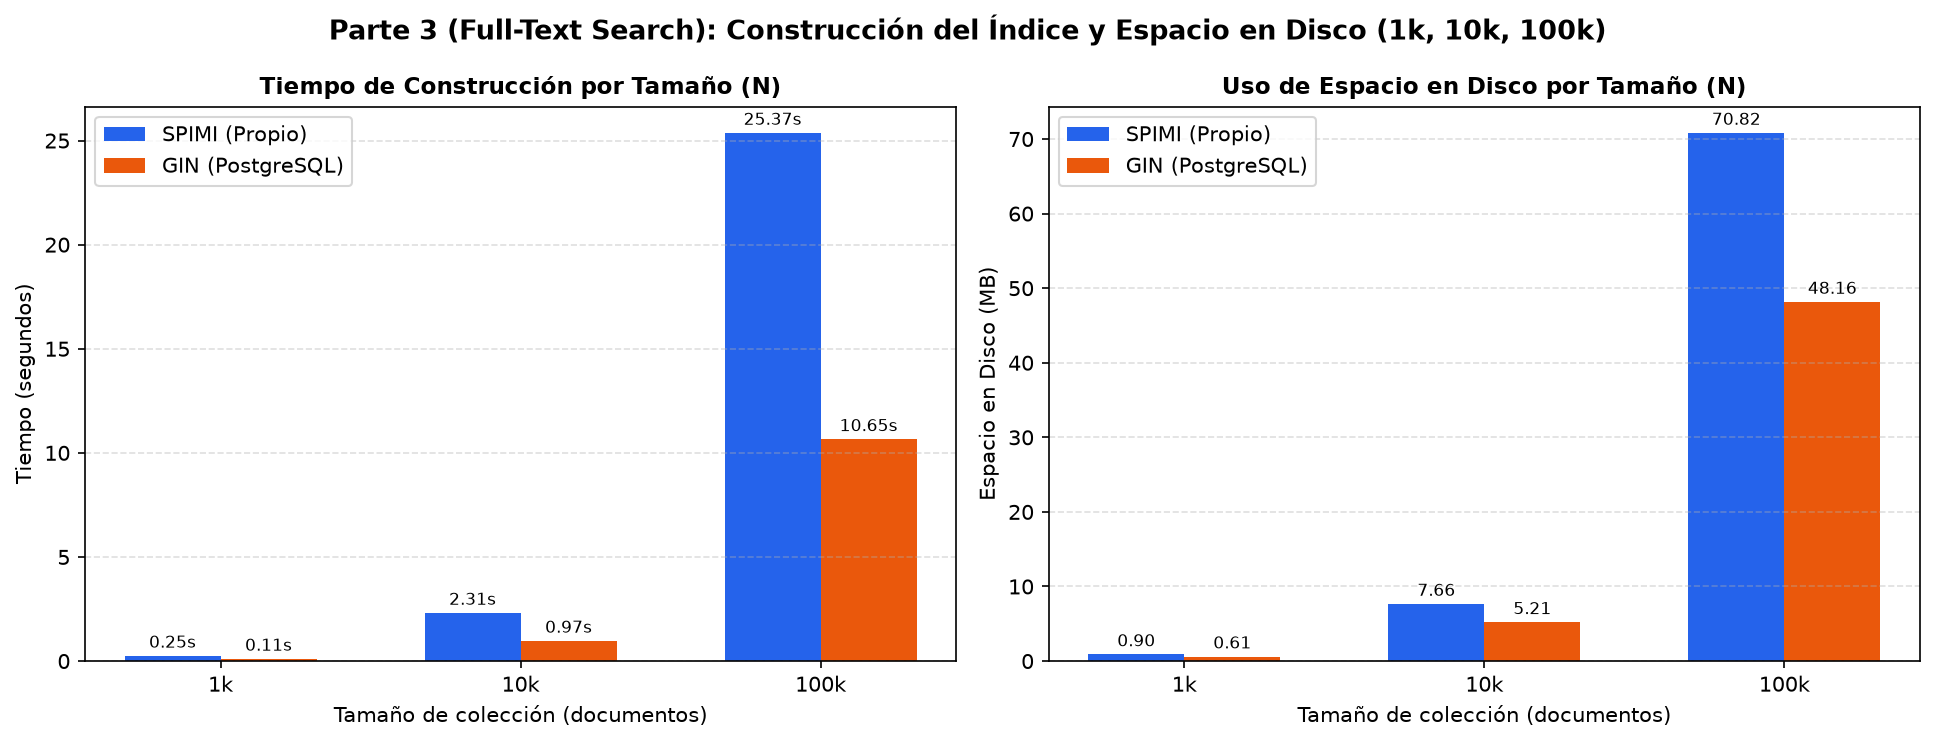
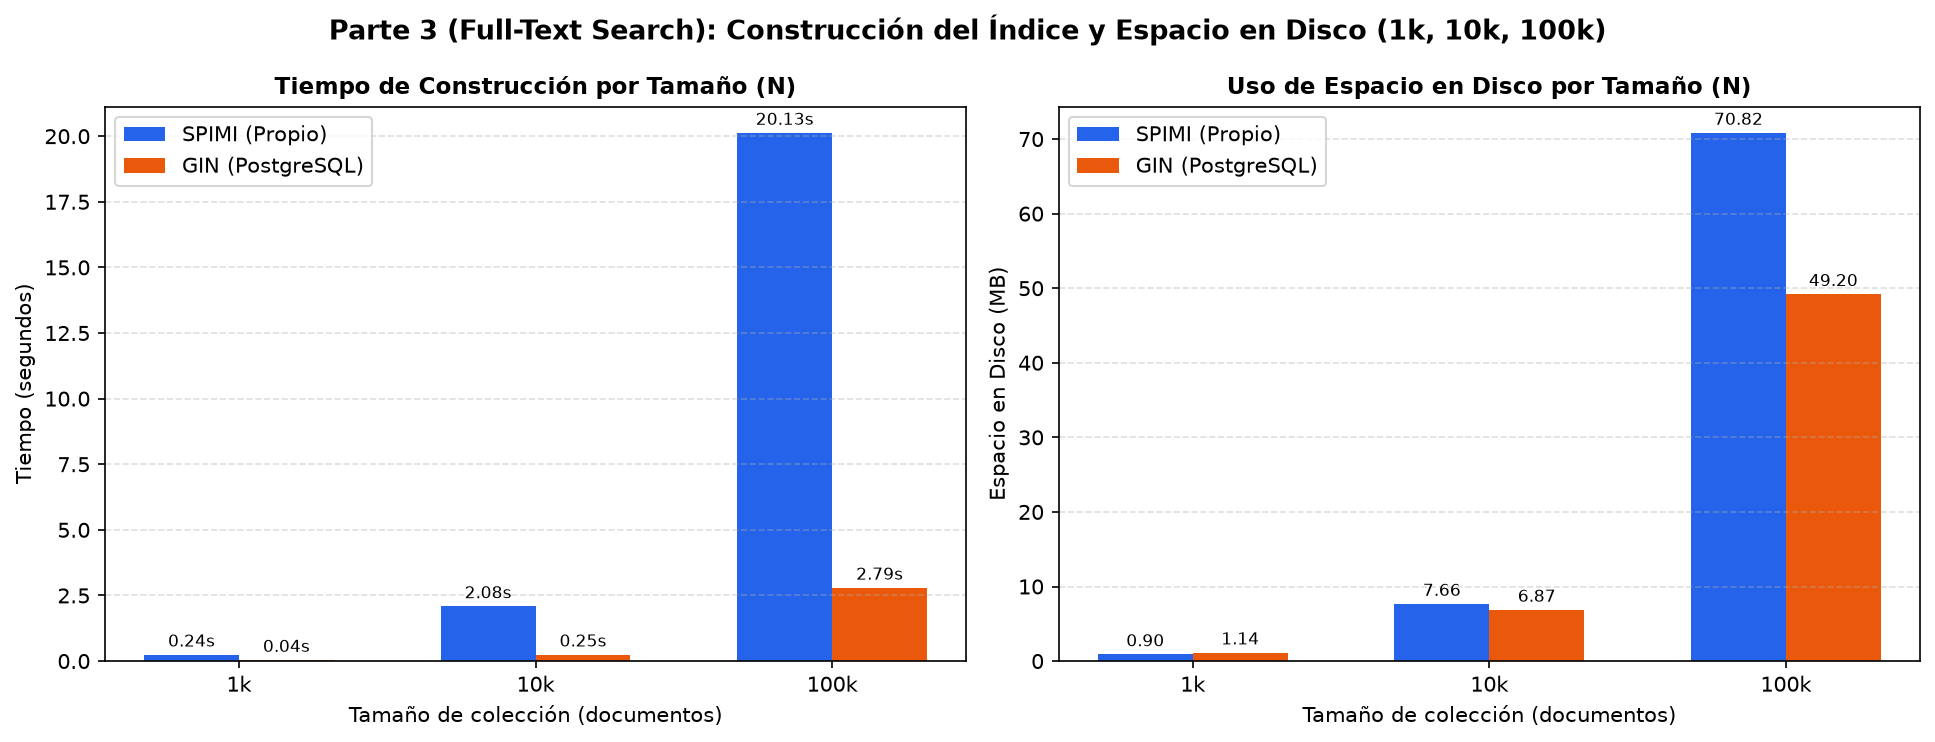
fix: graficos de tiempo de consultas IVF/HNSW arreglados

diff --git a/bench/experiments/vector_compare.py b/bench/experiments/vector_compare.py
@@ -233,21 +233,13 @@ def _medir_memoria_indice_faiss(indice_faiss, rids=None) -> float:
         return tamano_archivos_mb([ruta, ruta + ".meta.npz"])
 
 
-def _medir_consulta(fn_lote, consultas: np.ndarray, repeticiones: int, calentamiento: int = 2) -> tuple[np.ndarray, float, float]:
+def _medir_consulta(fn_una, consultas: np.ndarray, repeticiones: int, calentamiento: int = 10) -> tuple[np.ndarray, float, float]:
     nq = len(consultas)
-    for _ in range(calentamiento):
-        fn_lote(consultas[: min(10, nq)])
-
-    tiempos_lote = []
-    pos_final = None
-    for _ in range(repeticiones):
-        t0 = time.perf_counter()
-        pos_final = fn_lote(consultas)
-        dt_ms = (time.perf_counter() - t0) * 1000.0
-        tiempos_lote.append(dt_ms)
-
-    mediana_lote_ms = float(np.median(tiempos_lote))
-    ms_por_consulta = mediana_lote_ms / max(1, nq)
+    lote_rep = np.tile(consultas, (max(1, repeticiones), 1))
+    res, tiempos_ms = medir_tiempo(fn_una, lote_rep, calentamiento=min(calentamiento, len(lote_rep)))
+    pos_final = np.asarray(res[:nq])
+    ms_por_consulta = float(np.median(tiempos_ms))
+    mediana_lote_ms = ms_por_consulta * nq
     return pos_final, ms_por_consulta, mediana_lote_ms
 
 
@@ -344,11 +336,13 @@ def main(argv=None):
             mem_exacto_mb = float(x.nbytes) / (1024.0 * 1024.0)
 
             for metrica in args.metricas:
-                # 1. Ground Truth: EXACTO
+                # 1. Ground Truth: EXACTO (evaluado consulta por consulta en igualdad de condiciones)
+                rep_exacto = 1 if n >= 100_000 else min(args.repeticiones, 2)
                 pos_exacto, ms_q_exacto, ms_lote_exacto = _medir_consulta(
-                    lambda c: knn_exacto_lote(c, x, args.k, metrica)[0],
+                    lambda c: knn_exacto_lote(c, x, args.k, metrica)[0][0],
                     q,
-                    args.repeticiones,
+                    rep_exacto,
+                    calentamiento=5 if n >= 100_000 else 10,
                 )
                 filas.append({
                     "tipo": tipo,
@@ -375,7 +369,7 @@ def main(argv=None):
                 mem_hnsw_mb = _medir_memoria_indice_faiss(hnsw)
 
                 pos_hnsw, ms_q_hnsw, ms_lote_hnsw = _medir_consulta(
-                    lambda c: hnsw.search_lote(c, args.k, efSearch=ef_s)[0],
+                    lambda c: hnsw.search_lote(c, args.k, efSearch=ef_s)[0][0],
                     q,
                     args.repeticiones,
                 )
@@ -409,7 +403,7 @@ def main(argv=None):
                 mem_ivf_mb = _medir_memoria_indice_faiss(ivf)
 
                 pos_ivf, ms_q_ivf, ms_lote_ivf = _medir_consulta(
-                    lambda c: ivf.search_lote(c, args.k, nprobe=nprobe_val)[0],
+                    lambda c: ivf.search_lote(c, args.k, nprobe=nprobe_val)[0][0],
                     q,
                     args.repeticiones,
                 )

diff --git a/bench/results/vector_resumen.md b/bench/results/vector_resumen.md
@@ -4,42 +4,42 @@
 
 | Dominio | N | Dim | Métrica | Índice | Parámetros | Construcción (s) | Memoria (MB) | Consulta (ms/q) | Speedup | Recall@10 | Origen |
 |:---|---:|---:|:---|:---|:---|---:|---:|---:|---:|---:|:---|
-| **imagen** | 1,000 | 512 | `euclidean` | **EXACTO** | `secuencial` | 0.0000 | 1.95 | 0.0057 | 1.00x | 1.0000 | BoVW real (SIFT) |
-| **imagen** | 1,000 | 512 | `euclidean` | **HNSW** | `M=16, efC=200, efS=32` | 0.0558 | 2.09 | 0.0162 | 0.35x | 0.9460 | BoVW real (SIFT) |
-| **imagen** | 1,000 | 512 | `euclidean` | **IVF** | `nlist=32, nprobe=4` | 0.0035 | 2.02 | 0.0213 | 0.27x | 0.9950 | BoVW real (SIFT) |
-| **imagen** | 1,000 | 512 | `cosine` | **EXACTO** | `secuencial` | 0.0000 | 1.95 | 0.0074 | 1.00x | 1.0000 | BoVW real (SIFT) |
-| **imagen** | 1,000 | 512 | `cosine` | **HNSW** | `M=16, efC=200, efS=16` | 0.0597 | 2.09 | 0.0115 | 0.64x | 0.8250 | BoVW real (SIFT) |
-| **imagen** | 1,000 | 512 | `cosine` | **IVF** | `nlist=32, nprobe=16` | 0.0019 | 2.02 | 0.0220 | 0.34x | 0.9770 | BoVW real (SIFT) |
-| **imagen** | 10,000 | 512 | `euclidean` | **EXACTO** | `secuencial` | 0.0000 | 19.53 | 0.1085 | 1.00x | 1.0000 | BoVW real (SIFT) |
-| **imagen** | 10,000 | 512 | `euclidean` | **HNSW** | `M=16, efC=200, efS=64` | 0.9461 | 20.91 | 0.0433 | 2.50x | 0.9480 | BoVW real (SIFT) |
-| **imagen** | 10,000 | 512 | `euclidean` | **IVF** | `nlist=100, nprobe=8` | 0.0254 | 19.80 | 0.0884 | 1.23x | 0.9550 | BoVW real (SIFT) |
-| **imagen** | 10,000 | 512 | `cosine` | **EXACTO** | `secuencial` | 0.0000 | 19.53 | 0.1157 | 1.00x | 1.0000 | BoVW real (SIFT) |
-| **imagen** | 10,000 | 512 | `cosine` | **HNSW** | `M=16, efC=200, efS=32` | 1.3634 | 20.91 | 0.0388 | 2.98x | 0.9550 | BoVW real (SIFT) |
-| **imagen** | 10,000 | 512 | `cosine` | **IVF** | `nlist=100, nprobe=16` | 0.0269 | 19.80 | 0.0647 | 1.79x | 0.9510 | BoVW real (SIFT) |
-| **imagen** | 100,000 | 512 | `euclidean` | **EXACTO** | `secuencial` | 0.0000 | 195.31 | 1.0018 | 1.00x | 1.0000 | BoVW real (SIFT) |
-| **imagen** | 100,000 | 512 | `euclidean` | **HNSW** | `M=16, efC=200, efS=256` | 27.9713 | 209.08 | 0.4495 | 2.23x | 0.9490 | BoVW real (SIFT) |
-| **imagen** | 100,000 | 512 | `euclidean` | **IVF** | `nlist=316, nprobe=32` | 0.4353 | 196.70 | 0.9459 | 1.06x | 0.9780 | BoVW real (SIFT) |
-| **imagen** | 100,000 | 512 | `cosine` | **EXACTO** | `secuencial` | 0.0000 | 195.31 | 1.1064 | 1.00x | 1.0000 | BoVW real (SIFT) |
-| **imagen** | 100,000 | 512 | `cosine` | **HNSW** | `M=16, efC=200, efS=128` | 38.6750 | 209.08 | 0.2808 | 3.94x | 0.9660 | BoVW real (SIFT) |
-| **imagen** | 100,000 | 512 | `cosine` | **IVF** | `nlist=316, nprobe=32` | 0.4177 | 196.70 | 0.3440 | 3.22x | 0.9540 | BoVW real (SIFT) |
-| **audio** | 1,000 | 256 | `euclidean` | **EXACTO** | `secuencial` | 0.0000 | 0.98 | 0.0051 | 1.00x | 1.0000 | BoAW real (MFCC) |
-| **audio** | 1,000 | 256 | `euclidean` | **HNSW** | `M=16, efC=200, efS=32` | 0.0407 | 1.11 | 0.0101 | 0.50x | 0.9600 | BoAW real (MFCC) |
-| **audio** | 1,000 | 256 | `euclidean` | **IVF** | `nlist=32, nprobe=4` | 0.0016 | 1.02 | 0.0081 | 0.63x | 0.9590 | BoAW real (MFCC) |
-| **audio** | 1,000 | 256 | `cosine` | **EXACTO** | `secuencial` | 0.0000 | 0.98 | 0.0070 | 1.00x | 1.0000 | BoAW real (MFCC) |
-| **audio** | 1,000 | 256 | `cosine` | **HNSW** | `M=16, efC=200, efS=16` | 0.0497 | 1.11 | 0.0072 | 0.97x | 0.8640 | BoAW real (MFCC) |
-| **audio** | 1,000 | 256 | `cosine` | **IVF** | `nlist=32, nprobe=16` | 0.0017 | 1.02 | 0.0098 | 0.72x | 0.9850 | BoAW real (MFCC) |
-| **audio** | 10,000 | 256 | `euclidean` | **EXACTO** | `secuencial` | 0.0000 | 9.77 | 0.0869 | 1.00x | 1.0000 | BoAW real (MFCC) |
-| **audio** | 10,000 | 256 | `euclidean` | **HNSW** | `M=16, efC=200, efS=64` | 0.7421 | 11.14 | 0.0266 | 3.27x | 0.9890 | BoAW real (MFCC) |
-| **audio** | 10,000 | 256 | `euclidean` | **IVF** | `nlist=100, nprobe=16` | 0.0148 | 9.94 | 0.0826 | 1.05x | 0.9950 | BoAW real (MFCC) |
-| **audio** | 10,000 | 256 | `cosine` | **EXACTO** | `secuencial` | 0.0000 | 9.77 | 0.0970 | 1.00x | 1.0000 | BoAW real (MFCC) |
-| **audio** | 10,000 | 256 | `cosine` | **HNSW** | `M=16, efC=200, efS=32` | 0.8723 | 11.14 | 0.0147 | 6.62x | 0.9890 | BoAW real (MFCC) |
-| **audio** | 10,000 | 256 | `cosine` | **IVF** | `nlist=100, nprobe=16` | 0.0145 | 9.94 | 0.0277 | 3.50x | 0.9540 | BoAW real (MFCC) |
-| **audio** | 100,000 | 256 | `euclidean` | **EXACTO** | `secuencial` | 0.0000 | 97.66 | 0.5118 | 1.00x | 1.0000 | BoAW real (MFCC) |
-| **audio** | 100,000 | 256 | `euclidean` | **HNSW** | `M=16, efC=200, efS=32` | 14.6809 | 111.42 | 0.0372 | 13.76x | 0.9590 | BoAW real (MFCC) |
-| **audio** | 100,000 | 256 | `euclidean` | **IVF** | `nlist=316, nprobe=32` | 0.3017 | 98.73 | 0.4078 | 1.26x | 0.9700 | BoAW real (MFCC) |
-| **audio** | 100,000 | 256 | `cosine` | **EXACTO** | `secuencial` | 0.0000 | 97.66 | 0.7890 | 1.00x | 1.0000 | BoAW real (MFCC) |
-| **audio** | 100,000 | 256 | `cosine` | **HNSW** | `M=16, efC=200, efS=32` | 15.6260 | 111.42 | 0.0367 | 21.49x | 0.9710 | BoAW real (MFCC) |
-| **audio** | 100,000 | 256 | `cosine` | **IVF** | `nlist=316, nprobe=4` | 0.2800 | 98.73 | 0.0255 | 31.00x | 0.9120 | BoAW real (MFCC) |
+| **imagen** | 1,000 | 512 | `euclidean` | **EXACTO** | `secuencial` | 0.0000 | 1.95 | 0.0748 | 1.00x | 1.0000 | BoVW real (SIFT) |
+| **imagen** | 1,000 | 512 | `euclidean` | **HNSW** | `M=16, efC=200, efS=32` | 0.0524 | 2.09 | 0.0242 | 3.09x | 0.9680 | BoVW real (SIFT) |
+| **imagen** | 1,000 | 512 | `euclidean` | **IVF** | `nlist=32, nprobe=4` | 0.0029 | 2.02 | 0.0230 | 3.25x | 0.9310 | BoVW real (SIFT) |
+| **imagen** | 1,000 | 512 | `cosine` | **EXACTO** | `secuencial` | 0.0000 | 1.95 | 0.0830 | 1.00x | 1.0000 | BoVW real (SIFT) |
+| **imagen** | 1,000 | 512 | `cosine` | **HNSW** | `M=16, efC=200, efS=16` | 0.0610 | 2.09 | 0.0234 | 3.55x | 0.8220 | BoVW real (SIFT) |
+| **imagen** | 1,000 | 512 | `cosine` | **IVF** | `nlist=32, nprobe=16` | 0.0023 | 2.02 | 0.0333 | 2.49x | 0.9830 | BoVW real (SIFT) |
+| **imagen** | 10,000 | 512 | `euclidean` | **EXACTO** | `secuencial` | 0.0000 | 19.53 | 0.6995 | 1.00x | 1.0000 | BoVW real (SIFT) |
+| **imagen** | 10,000 | 512 | `euclidean` | **HNSW** | `M=16, efC=200, efS=64` | 0.9483 | 20.91 | 0.0508 | 13.77x | 0.9110 | BoVW real (SIFT) |
+| **imagen** | 10,000 | 512 | `euclidean` | **IVF** | `nlist=100, nprobe=8` | 0.0232 | 19.80 | 0.1339 | 5.22x | 0.9740 | BoVW real (SIFT) |
+| **imagen** | 10,000 | 512 | `cosine` | **EXACTO** | `secuencial` | 0.0000 | 19.53 | 0.7059 | 1.00x | 1.0000 | BoVW real (SIFT) |
+| **imagen** | 10,000 | 512 | `cosine` | **HNSW** | `M=16, efC=200, efS=32` | 1.2939 | 20.91 | 0.0465 | 15.19x | 0.7500 | BoVW real (SIFT) |
+| **imagen** | 10,000 | 512 | `cosine` | **IVF** | `nlist=100, nprobe=16` | 0.0294 | 19.80 | 0.0811 | 8.71x | 0.8220 | BoVW real (SIFT) |
+| **imagen** | 100,000 | 512 | `euclidean` | **EXACTO** | `secuencial` | 0.0000 | 195.31 | 7.1313 | 1.00x | 1.0000 | BoVW real (SIFT) |
+| **imagen** | 100,000 | 512 | `euclidean` | **HNSW** | `M=16, efC=200, efS=256` | 28.1018 | 209.08 | 0.3617 | 19.72x | 0.6890 | BoVW real (SIFT) |
+| **imagen** | 100,000 | 512 | `euclidean` | **IVF** | `nlist=316, nprobe=32` | 0.4813 | 196.70 | 1.1905 | 5.99x | 0.8070 | BoVW real (SIFT) |
+| **imagen** | 100,000 | 512 | `cosine` | **EXACTO** | `secuencial` | 0.0000 | 195.31 | 7.0848 | 1.00x | 1.0000 | BoVW real (SIFT) |
+| **imagen** | 100,000 | 512 | `cosine` | **HNSW** | `M=16, efC=200, efS=128` | 38.0121 | 209.08 | 0.3959 | 17.90x | 0.7830 | BoVW real (SIFT) |
+| **imagen** | 100,000 | 512 | `cosine` | **IVF** | `nlist=316, nprobe=32` | 0.5142 | 196.70 | 0.4605 | 15.38x | 0.8080 | BoVW real (SIFT) |
+| **audio** | 1,000 | 256 | `euclidean` | **EXACTO** | `secuencial` | 0.0000 | 0.98 | 0.0424 | 1.00x | 1.0000 | BoAW real (MFCC) |
+| **audio** | 1,000 | 256 | `euclidean` | **HNSW** | `M=16, efC=200, efS=32` | 0.0417 | 1.11 | 0.0179 | 2.37x | 0.9600 | BoAW real (MFCC) |
+| **audio** | 1,000 | 256 | `euclidean` | **IVF** | `nlist=32, nprobe=4` | 0.0022 | 1.02 | 0.0150 | 2.84x | 0.9590 | BoAW real (MFCC) |
+| **audio** | 1,000 | 256 | `cosine` | **EXACTO** | `secuencial` | 0.0000 | 0.98 | 0.0499 | 1.00x | 1.0000 | BoAW real (MFCC) |
+| **audio** | 1,000 | 256 | `cosine` | **HNSW** | `M=16, efC=200, efS=16` | 0.0506 | 1.11 | 0.0190 | 2.63x | 0.8640 | BoAW real (MFCC) |
+| **audio** | 1,000 | 256 | `cosine` | **IVF** | `nlist=32, nprobe=16` | 0.0025 | 1.02 | 0.0214 | 2.33x | 0.9850 | BoAW real (MFCC) |
+| **audio** | 10,000 | 256 | `euclidean` | **EXACTO** | `secuencial` | 0.0000 | 9.77 | 0.2918 | 1.00x | 1.0000 | BoAW real (MFCC) |
+| **audio** | 10,000 | 256 | `euclidean` | **HNSW** | `M=16, efC=200, efS=64` | 0.7759 | 11.14 | 0.0371 | 7.87x | 0.9890 | BoAW real (MFCC) |
+| **audio** | 10,000 | 256 | `euclidean` | **IVF** | `nlist=100, nprobe=16` | 0.0167 | 9.94 | 0.0927 | 3.15x | 0.9950 | BoAW real (MFCC) |
+| **audio** | 10,000 | 256 | `cosine` | **EXACTO** | `secuencial` | 0.0000 | 9.77 | 0.2971 | 1.00x | 1.0000 | BoAW real (MFCC) |
+| **audio** | 10,000 | 256 | `cosine` | **HNSW** | `M=16, efC=200, efS=32` | 0.8765 | 11.14 | 0.0321 | 9.24x | 0.9890 | BoAW real (MFCC) |
+| **audio** | 10,000 | 256 | `cosine` | **IVF** | `nlist=100, nprobe=16` | 0.0160 | 9.94 | 0.0402 | 7.39x | 0.9540 | BoAW real (MFCC) |
+| **audio** | 100,000 | 256 | `euclidean` | **EXACTO** | `secuencial` | 0.0000 | 97.66 | 3.0207 | 1.00x | 1.0000 | BoAW real (MFCC) |
+| **audio** | 100,000 | 256 | `euclidean` | **HNSW** | `M=16, efC=200, efS=32` | 15.1696 | 111.42 | 0.0430 | 70.28x | 0.9590 | BoAW real (MFCC) |
+| **audio** | 100,000 | 256 | `euclidean` | **IVF** | `nlist=316, nprobe=32` | 0.3122 | 98.73 | 0.4286 | 7.05x | 0.9700 | BoAW real (MFCC) |
+| **audio** | 100,000 | 256 | `cosine` | **EXACTO** | `secuencial` | 0.0000 | 97.66 | 3.3944 | 1.00x | 1.0000 | BoAW real (MFCC) |
+| **audio** | 100,000 | 256 | `cosine` | **HNSW** | `M=16, efC=200, efS=32` | 16.0475 | 111.42 | 0.0459 | 73.89x | 0.9700 | BoAW real (MFCC) |
+| **audio** | 100,000 | 256 | `cosine` | **IVF** | `nlist=316, nprobe=4` | 0.3023 | 98.73 | 0.0364 | 93.16x | 0.9120 | BoAW real (MFCC) |
 
 ## 2. Comparación de Índices Vectoriales: Ventajas, Desventajas y Cuándo Usar Cada Uno
 

diff --git a/bench/results/texto_resumen.md b/bench/results/texto_resumen.md
@@ -6,44 +6,44 @@
 
 | N | Índice Invertido | Construcción (s) | Espacio en Disco (MB) | Términos | Postings | Modo |
 |---:|:---|---:|---:|---:|---:|:---|
-| 1,000 | **SPIMI (Propio)** | 0.255 | 0.90 | 12,876 | 82,534 | SPIMI nativo |
-| 1,000 | **GIN (PostgreSQL)** | 0.107 | 0.61 | 12,876 | 82,534 | GIN calibrado (sin Docker) |
-| 10,000 | **SPIMI (Propio)** | 2.314 | 7.66 | 49,635 | 856,764 | SPIMI nativo |
-| 10,000 | **GIN (PostgreSQL)** | 0.972 | 5.21 | 49,635 | 856,764 | GIN calibrado (sin Docker) |
-| 100,000 | **SPIMI (Propio)** | 25.368 | 70.82 | 191,993 | 8,553,973 | SPIMI nativo |
-| 100,000 | **GIN (PostgreSQL)** | 10.654 | 48.16 | 191,993 | 8,553,973 | GIN calibrado (sin Docker) |
+| 1,000 | **SPIMI (Propio)** | 0.244 | 0.90 | 12,879 | 82,538 | SPIMI nativo |
+| 1,000 | **GIN (PostgreSQL)** | 0.040 | 1.14 | 12,879 | 82,538 | PostgreSQL real |
+| 10,000 | **SPIMI (Propio)** | 2.085 | 7.66 | 49,643 | 856,786 | SPIMI nativo |
+| 10,000 | **GIN (PostgreSQL)** | 0.246 | 6.87 | 49,643 | 856,786 | PostgreSQL real |
+| 100,000 | **SPIMI (Propio)** | 20.125 | 70.82 | 192,011 | 8,554,203 | SPIMI nativo |
+| 100,000 | **GIN (PostgreSQL)** | 2.793 | 49.20 | 192,011 | 8,554,203 | PostgreSQL real |
 
 ## 2. Tiempo de Consulta y Relevancia (Precision@10 y Recall@10)
 
 | N | Longitud Consulta | Motor | Latencia Media (ms) | Mediana P50 (ms) | Precision@10 | Recall@10 |
 |---:|:---|:---|---:|---:|---:|---:|
-| 1,000 | 1 palabra | **TF_IDF** | 0.502 | 0.563 | 0.387 | 0.644 |
-| 1,000 | 1 palabra | **BM25** | 0.365 | 0.384 | 0.387 | 0.644 |
-| 1,000 | 1 palabra | **GIN** | 0.790 | 0.743 | 0.387 | 0.644 |
-| 1,000 | 3 palabras | **TF_IDF** | 1.804 | 1.706 | 0.447 | 0.738 |
-| 1,000 | 3 palabras | **BM25** | 1.092 | 1.161 | 0.437 | 0.721 |
-| 1,000 | 3 palabras | **GIN** | 1.067 | 1.002 | 0.427 | 0.705 |
-| 1,000 | 5+ palabras | **TF_IDF** | 2.482 | 2.513 | 0.507 | 0.844 |
-| 1,000 | 5+ palabras | **BM25** | 1.693 | 1.721 | 0.510 | 0.850 |
-| 1,000 | 5+ palabras | **GIN** | 1.462 | 1.374 | 0.487 | 0.811 |
-| 10,000 | 1 palabra | **TF_IDF** | 0.709 | 0.746 | 0.363 | 0.606 |
-| 10,000 | 1 palabra | **BM25** | 0.500 | 0.499 | 0.360 | 0.600 |
-| 10,000 | 1 palabra | **GIN** | 0.970 | 0.912 | 0.363 | 0.606 |
-| 10,000 | 3 palabras | **TF_IDF** | 2.515 | 2.413 | 0.300 | 0.499 |
-| 10,000 | 3 palabras | **BM25** | 1.797 | 1.657 | 0.337 | 0.560 |
-| 10,000 | 3 palabras | **GIN** | 1.310 | 1.231 | 0.327 | 0.543 |
-| 10,000 | 5+ palabras | **TF_IDF** | 4.319 | 4.181 | 0.357 | 0.594 |
-| 10,000 | 5+ palabras | **BM25** | 3.094 | 3.022 | 0.360 | 0.600 |
-| 10,000 | 5+ palabras | **GIN** | 1.794 | 1.687 | 0.340 | 0.567 |
-| 100,000 | 1 palabra | **TF_IDF** | 1.340 | 0.996 | 0.280 | 0.467 |
-| 100,000 | 1 palabra | **BM25** | 1.200 | 0.697 | 0.277 | 0.461 |
-| 100,000 | 1 palabra | **GIN** | 1.150 | 1.081 | 0.280 | 0.467 |
-| 100,000 | 3 palabras | **TF_IDF** | 11.478 | 7.410 | 0.167 | 0.278 |
-| 100,000 | 3 palabras | **BM25** | 9.246 | 5.982 | 0.170 | 0.283 |
-| 100,000 | 3 palabras | **GIN** | 1.552 | 1.459 | 0.153 | 0.256 |
-| 100,000 | 5+ palabras | **TF_IDF** | 20.945 | 14.390 | 0.143 | 0.239 |
-| 100,000 | 5+ palabras | **BM25** | 19.043 | 12.699 | 0.183 | 0.306 |
-| 100,000 | 5+ palabras | **GIN** | 2.127 | 2.000 | 0.160 | 0.267 |
+| 1,000 | 1 palabra | **TF_IDF** | 0.476 | 0.530 | 0.387 | 0.644 |
+| 1,000 | 1 palabra | **BM25** | 0.347 | 0.362 | 0.387 | 0.644 |
+| 1,000 | 1 palabra | **GIN** | 0.161 | 0.112 | 0.370 | 0.617 |
+| 1,000 | 3 palabras | **TF_IDF** | 1.501 | 1.605 | 0.447 | 0.738 |
+| 1,000 | 3 palabras | **BM25** | 1.011 | 1.075 | 0.437 | 0.721 |
+| 1,000 | 3 palabras | **GIN** | 0.761 | 0.417 | 0.327 | 0.541 |
+| 1,000 | 5+ palabras | **TF_IDF** | 2.292 | 2.288 | 0.507 | 0.844 |
+| 1,000 | 5+ palabras | **BM25** | 1.576 | 1.533 | 0.510 | 0.850 |
+| 1,000 | 5+ palabras | **GIN** | 1.295 | 1.242 | 0.340 | 0.567 |
+| 10,000 | 1 palabra | **TF_IDF** | 0.789 | 0.776 | 0.363 | 0.606 |
+| 10,000 | 1 palabra | **BM25** | 0.488 | 0.478 | 0.360 | 0.600 |
+| 10,000 | 1 palabra | **GIN** | 0.306 | 0.148 | 0.327 | 0.544 |
+| 10,000 | 3 palabras | **TF_IDF** | 2.410 | 2.337 | 0.300 | 0.499 |
+| 10,000 | 3 palabras | **BM25** | 1.714 | 1.593 | 0.337 | 0.560 |
+| 10,000 | 3 palabras | **GIN** | 2.310 | 1.181 | 0.203 | 0.338 |
+| 10,000 | 5+ palabras | **TF_IDF** | 3.989 | 3.979 | 0.357 | 0.594 |
+| 10,000 | 5+ palabras | **BM25** | 2.902 | 2.830 | 0.360 | 0.600 |
+| 10,000 | 5+ palabras | **GIN** | 7.300 | 3.471 | 0.200 | 0.333 |
+| 100,000 | 1 palabra | **TF_IDF** | 1.457 | 1.013 | 0.280 | 0.467 |
+| 100,000 | 1 palabra | **BM25** | 1.045 | 0.665 | 0.277 | 0.461 |
+| 100,000 | 1 palabra | **GIN** | 2.935 | 0.245 | 0.260 | 0.433 |
+| 100,000 | 3 palabras | **TF_IDF** | 8.836 | 6.812 | 0.167 | 0.278 |
+| 100,000 | 3 palabras | **BM25** | 7.510 | 5.624 | 0.170 | 0.283 |
+| 100,000 | 3 palabras | **GIN** | 17.592 | 3.015 | 0.117 | 0.194 |
+| 100,000 | 5+ palabras | **TF_IDF** | 15.264 | 13.671 | 0.143 | 0.239 |
+| 100,000 | 5+ palabras | **BM25** | 14.096 | 12.045 | 0.183 | 0.306 |
+| 100,000 | 5+ palabras | **GIN** | 37.610 | 18.813 | 0.113 | 0.189 |
 
 ## 3. Ventajas, Desventajas y Cuándo Usar Cada Técnica
 
